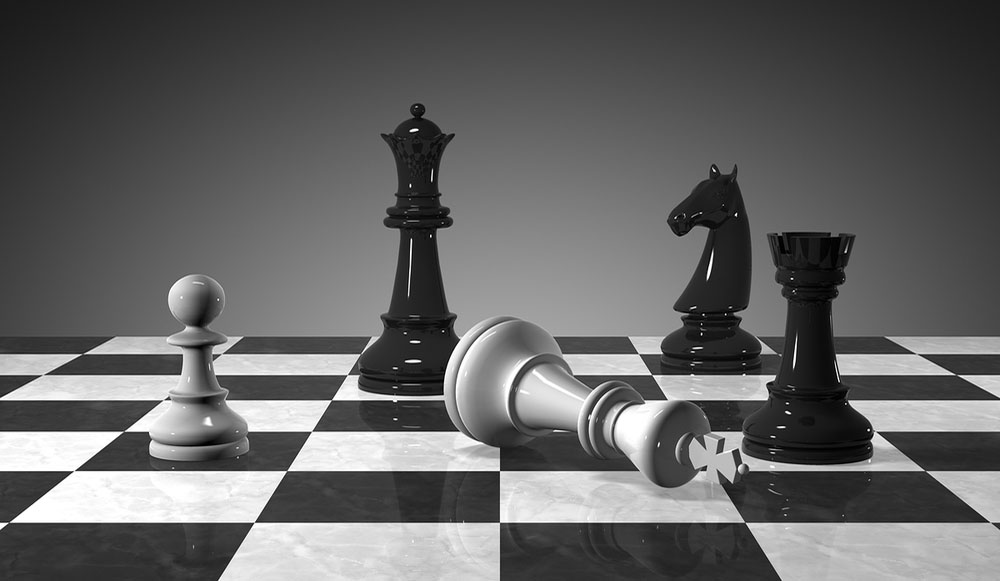
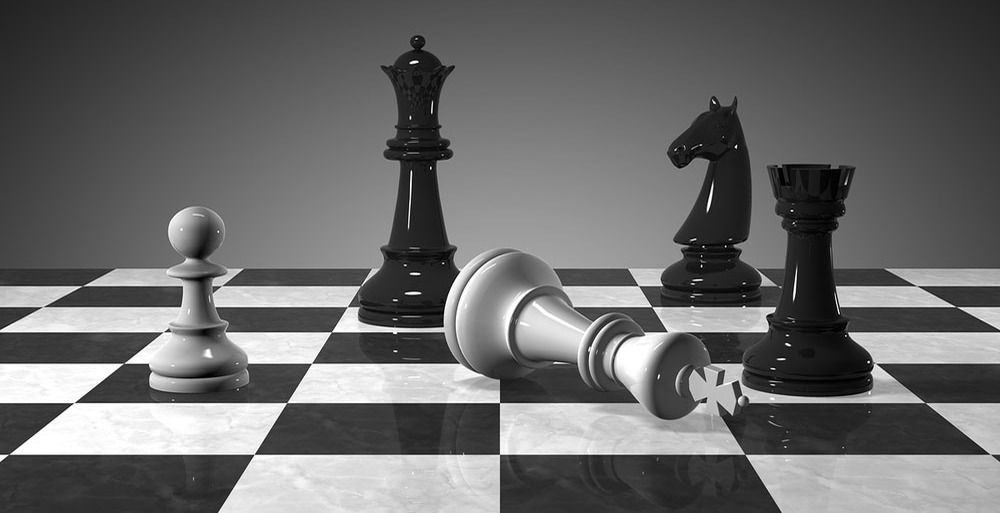
update

Changed region(s): [[0.0, 0.0624, 1.0, 0.9669]]

diff --git a/index.html b/index.html
@@ -100,10 +100,11 @@
                                     </span>
                                 </div> -->
                             <!-- <table style="text-align:center;"> -->
+                            <table style="margin: 0 auto;"></table>
                             <table style="margin: 0 auto;">
                                 <tr>
                                     <td>
-                                        <img class="img-responsive" src="img/logo_inicio.jpg" width="60px" height="60px">
+                                        <img class="img-responsive" src="img/logo_inicio_waifu2x_photo_noise3_tta_1.jpg" width="90px" height="90px">
                                     </td>
                                     <td style="text-align:center;">
                                         <!-- <h1 style="color: #fff;"> Palacios & Asociados </h1>
@@ -112,10 +113,10 @@
                                         <!-- <h2 style="color: #fff;"> Palacios & Asociados </h1>
                                         <h3 style="color: #fff;"> Estudio de Abogados </h2>
                                         <h5 style="color: #fff;"> <i> "Prevenimos conflictos, creamos soluciones"</i></h5> -->
-                                        <br></br>
-                                        <h3 style="color: #fff;"> &nbsp;&nbsp; Palacios & Asociados </h1>
-                                        <h5 style="color: #fff;"> &nbsp;&nbsp;&nbsp; Estudio de Abogados </h2>
-                                        <h6 style="color: #fff;"> <i> &nbsp;&nbsp;&nbsp;&nbsp;&nbsp; Prevenimos conflictos, creamos soluciones.</i></h5>
+                                        <br></br></br>
+                                        <h2 style="color: #fff;"> &nbsp;&nbsp; Palacios & Asociados </h2>
+                                        <h3 style="color: #fff;"> &nbsp;&nbsp;&nbsp; Estudio de Abogados </h3>
+                                        <h5 style="color: #fff;"> &nbsp;&nbsp;&nbsp;&nbsp;&nbsp; "Prevenimos conflictos, creamos soluciones."</h5>
                                     </td>
                                   </tr>
                             </table>
@@ -297,8 +298,13 @@
                     <hr class="small"> 
                     <br>
                     <br>
-                    <br>                   
+                    <h3> <font color="white"><span style="background-color: #5b6162;">&nbsp;&nbsp;&nbsp;Municipalidades&nbsp;&nbsp;&nbsp;</span></font></h3>
+                    <br>        
+                    <br>            
                     <!-- 4 -->
+                    <!-- <div class="row line_portfolio line_portfolio">
+                    </div>  -->
+
                     <div class="row">
                         <div class="col-md-3 col-sm-6">
                             <div class="service-item">
@@ -418,7 +424,14 @@
                             </div>
                         </div>
                     </div>
-                    <!-- 4 - 2 -->
+                    <!-- line_portfolio -->
+                    <br>
+                    <h3><u>Entidades Públicas</u></h3>
+                    <!-- <h3><font color="white"><span style="background-color: #5b6162;">&nbsp;&nbsp;&nbsp;Entidades Públicas&nbsp;&nbsp;&nbsp;</span></font></h3> -->
+                    <h3><font color="white"><span style="background-color: #A9A9A9;">&nbsp;&nbsp;&nbsp;<u>Entidades Públicas</u>&nbsp;&nbsp;&nbsp;</span></font></h3>
+                    
+                    <br>
+                    <!-- 4 - 3 -->
                     <div class="row">
                         <div class="col-md-3 col-sm-6">
                             <div class="service-item">
@@ -432,6 +445,20 @@
                                     <strong>Matadero de la C.C. de Quicapata</strong>
                                 </h5>
                                 <p>Periodo 2018 - 2020</p>
+                            </div>
+                        </div>
+                        <div class="col-md-3 col-sm-6">
+                            <div class="service-item">
+                                <span class="fa-stack fa-5x">                                   
+                                    <img class="img-responsive" src="img/cliente_gastromedic.jpg" style="padding-top: 10px;">
+                                </span>
+                                <br>
+                                <br>
+                                <br>
+                                <h5>
+                                    <strong>Gastromedic</strong>
+                                </h5>
+                                <p>Periodo 2020</p>
                             </div>
                         </div>
                     </div>

diff --git a/css/stylish-portfolio.css b/css/stylish-portfolio.css
@@ -160,12 +160,13 @@ hr.small {
     background-size: cover;
     -o-background-size: cover;
 }
+/* chess background */
 .header {
     display: table;
     position: relative;
     width: 100%;
     height: 100%;
-    background: url(../img/inicio_ajedrez.jpg) no-repeat center center scroll;
+    background: url(../img/inicio_ajedrez_waifu2x_photo_noise3_tta_1.jpg) no-repeat center center scroll;
     -webkit-background-size: cover;
     -moz-background-size: cover;
     background-size: cover;
@@ -174,10 +175,14 @@ hr.small {
 
 .inicio {
     /* padding: 20px 300px; */
-    color: #252525;
+    color:#252525;
     /* padding: 10px 0;
     margin-left: auto;
     margin-right: auto; */
+}
+
+.line_portfolio {
+    color: #C0C0C0;
 }
 /* About */
 

diff --git a/css/bootstrap.min.css b/css/bootstrap.min.css
@@ -1381,10 +1381,16 @@ a.text-danger:hover {
 }
 /* inicio */
 .bg-inicio {
-    color: #252525;
-    background-color: #252525;
+    color:#252525;
+    background-color:#252525;
     /* color: #fff;
     background-color: #5c6162; */
+}
+.line_portfolio {
+  color: #C0C0C0;
+  background-color: #C0C0C0;
+  /* color: #fff;
+  background-color: #5c6162; */
 }
 a.bg-primary:focus,
 a.bg-primary:hover {
